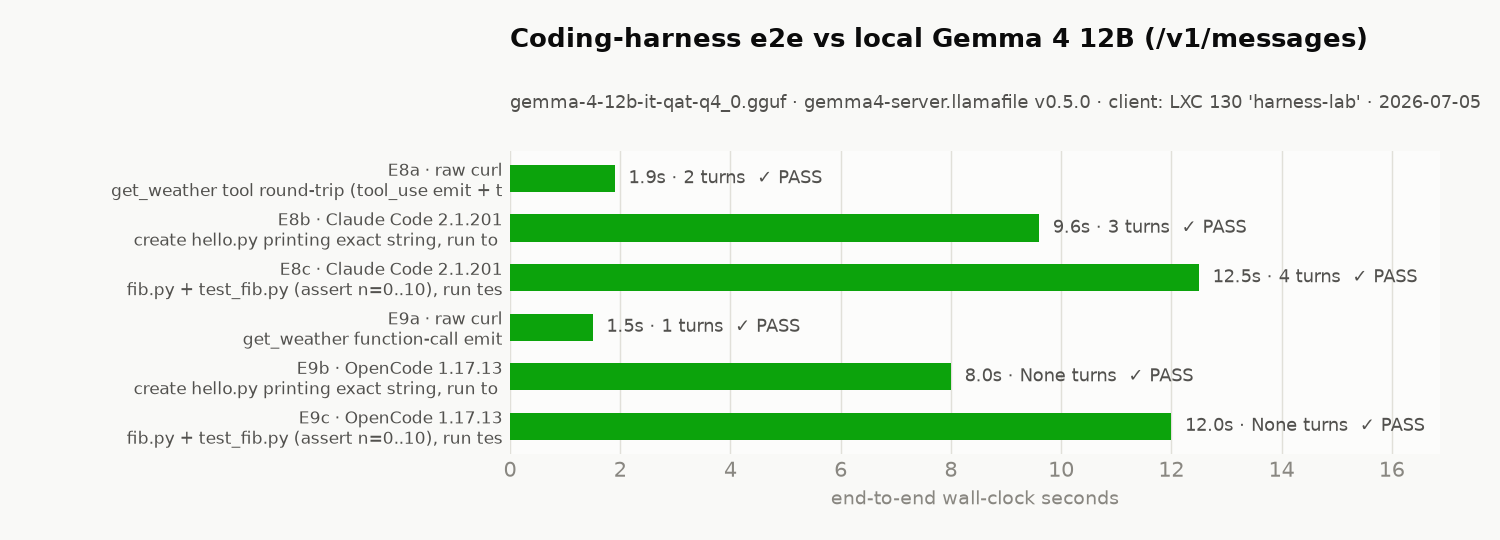
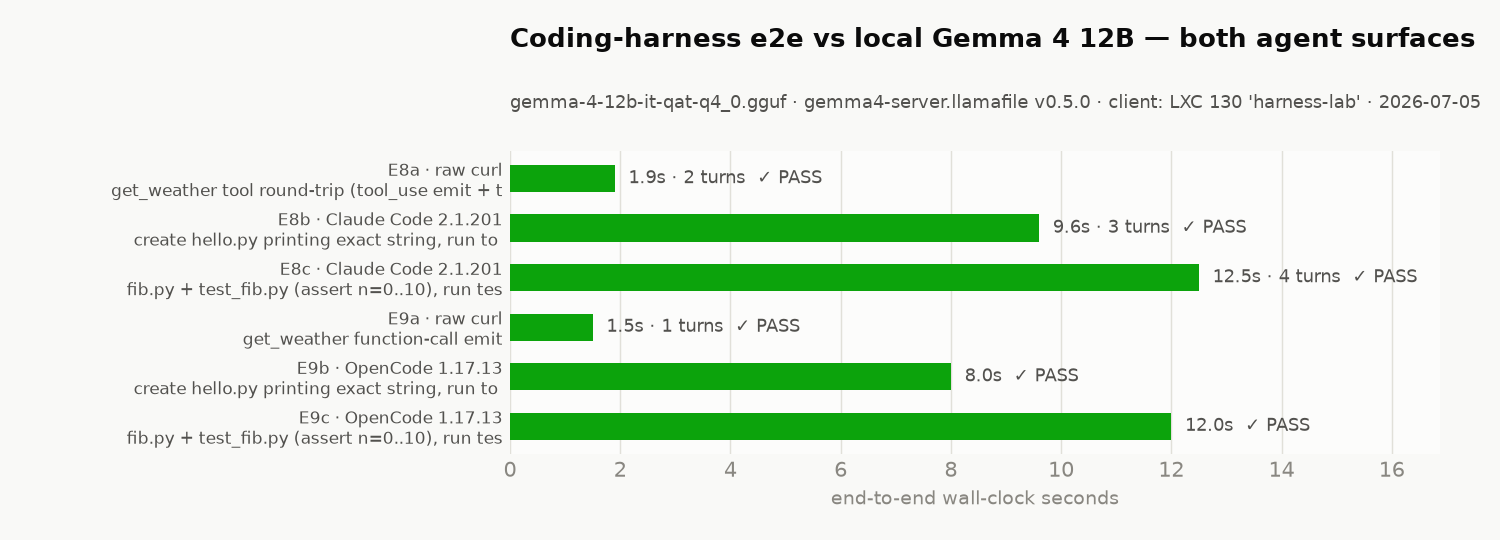
bench: chart polish — neutral title, hide null turns
Claude-Session: https://claude.ai/code/session_01WqjW8jm4HkwJ2iZNxJGWe3

Changed region(s): [[0.7667, 0.0296, 0.9813, 0.0889], [0.828, 0.7704, 0.9507, 0.8], [0.6747, 0.6815, 0.7973, 0.7111]]

diff --git a/bench/chart_harness.py b/bench/chart_harness.py
@@ -36,11 +36,11 @@ ax.set_xlim(0, max(vals) * 1.35)
 for y, r in zip(ys, rows):
     mark = "✓ PASS" if r["verdict"] == "PASS" else "✗ FAIL"
     ax.text(r["wall_s"] + max(vals) * 0.02, y,
-            f"{r['wall_s']}s · {r['turns']} turns  {mark}",
+            f"{r['wall_s']}s{f" · {r['turns']} turns" if r.get('turns') else ''}  {mark}",
             va="center", fontsize=8.5, color=INK2 if r["verdict"] == "PASS" else CRIT,
             fontweight="normal" if r["verdict"] == "PASS" else "bold", zorder=4)
 
-fig.suptitle("Coding-harness e2e vs local Gemma 4 12B (/v1/messages)",
+fig.suptitle("Coding-harness e2e vs local Gemma 4 12B — both agent surfaces",
              x=0.34, ha="left", fontsize=12.5, fontweight="bold", color=INK, y=0.95)
 fig.text(0.34, 0.80, f"{rep['model']} · {rep['server'].split('(')[0].strip()} · client: {rep['client_env'].split(':')[0]} · {rep['date']}",
          fontsize=8.5, color=INK2)
